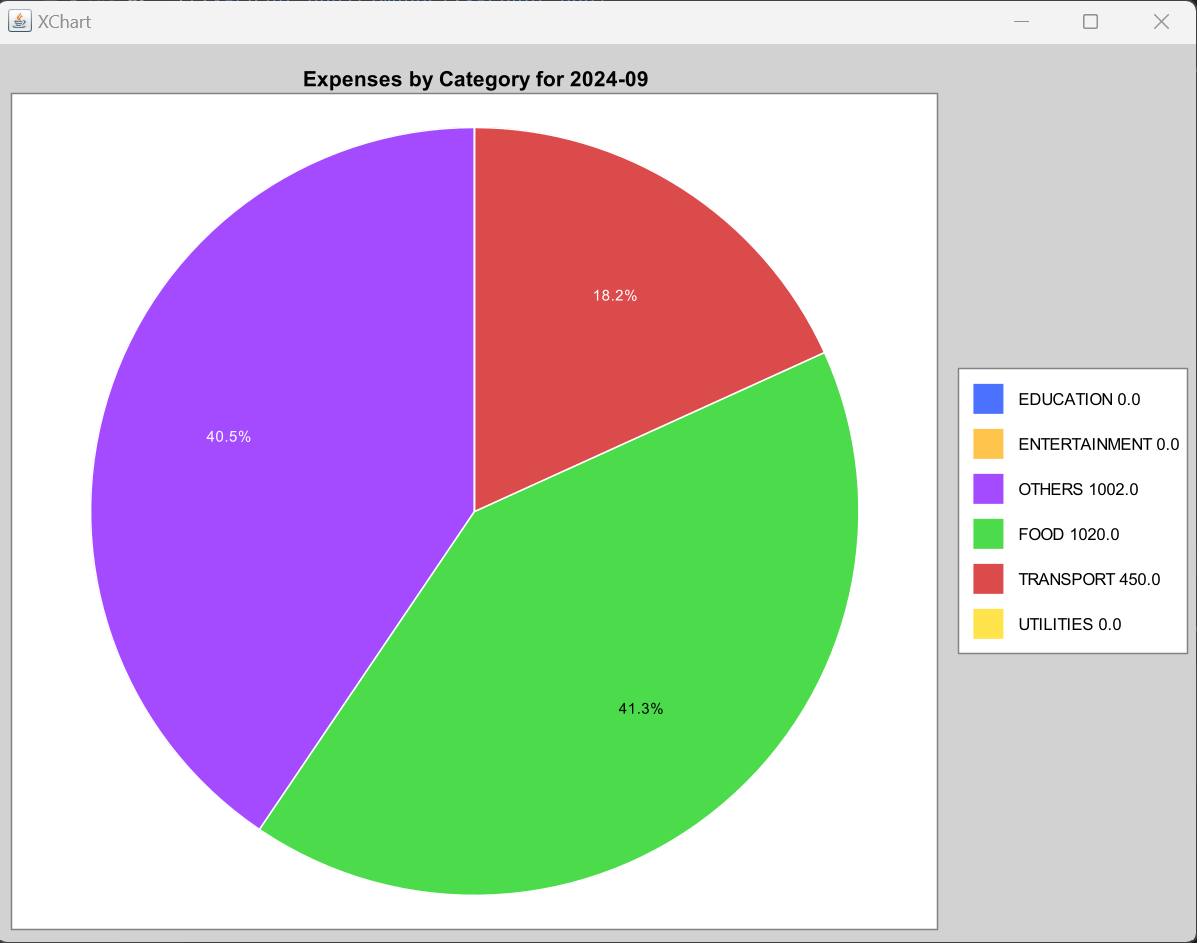
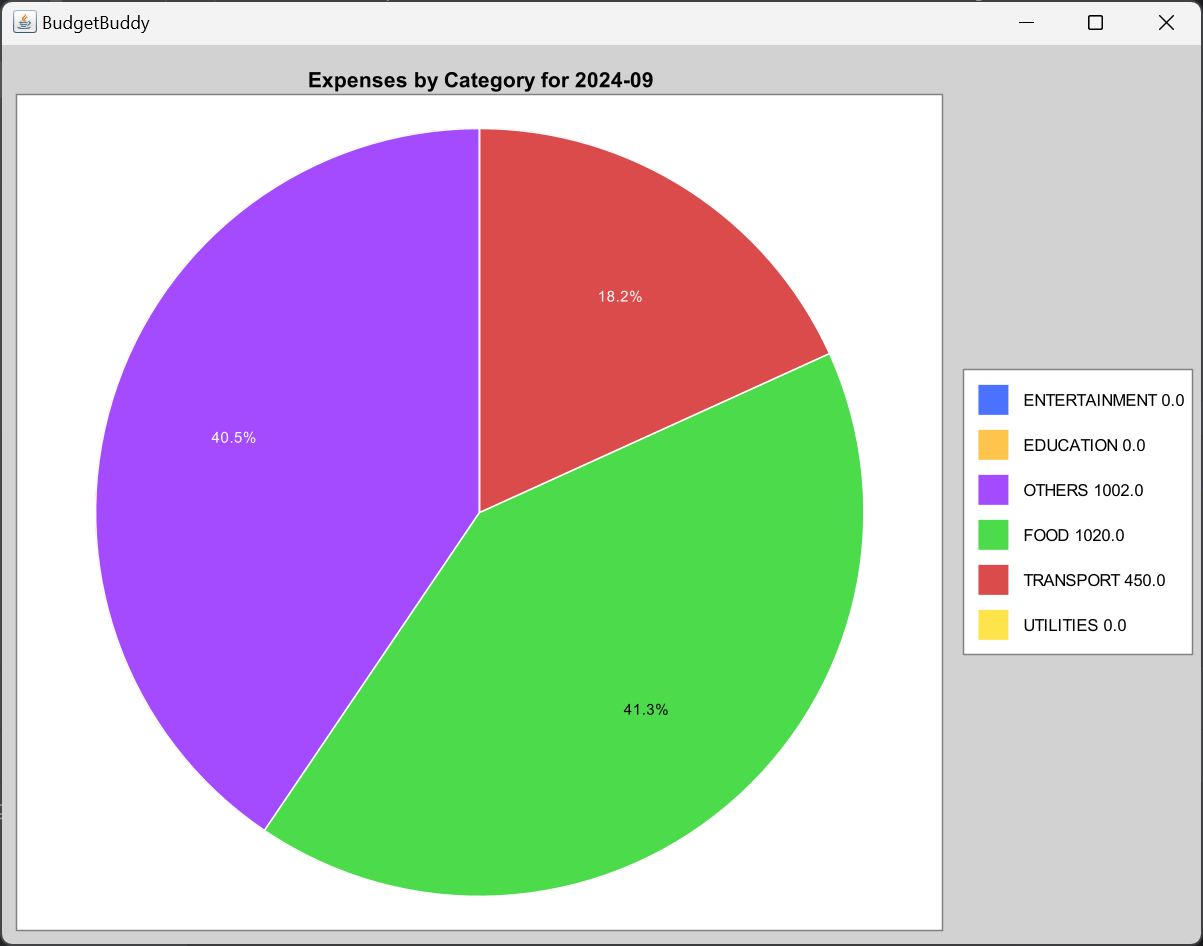
Change Frame Name for Display Charts

diff --git a/src/main/java/seedu/budgetbuddy/graphs/ExpensesCategoryPieChart.java b/src/main/java/seedu/budgetbuddy/graphs/ExpensesCategoryPieChart.java
@@ -68,6 +68,7 @@ public class ExpensesCategoryPieChart {
         // Display the chart in a Swing frame
         SwingWrapper<PieChart> swingWrapper = new SwingWrapper<>(pieChart);
         JFrame frame = swingWrapper.displayChart();
+        frame.setTitle("BudgetBuddy");
 
         // Set the default close operation for the frame
         javax.swing.SwingUtilities.invokeLater(() -> frame.setDefaultCloseOperation(JFrame.DISPOSE_ON_CLOSE));

diff --git a/src/main/java/seedu/budgetbuddy/graphs/ExpensesOverMonthGraph.java b/src/main/java/seedu/budgetbuddy/graphs/ExpensesOverMonthGraph.java
@@ -80,6 +80,7 @@ public class ExpensesOverMonthGraph {
         // Create the SwingWrapper
         SwingWrapper<XYChart> swingWrapper = new SwingWrapper<>(expensesChart);
         JFrame frame = swingWrapper.displayChart();
+        frame.setTitle("BudgetBuddy");
 
         // Set the default close operation on the EDT
         javax.swing.SwingUtilities.invokeLater(() -> frame.setDefaultCloseOperation(JFrame.DISPOSE_ON_CLOSE));
